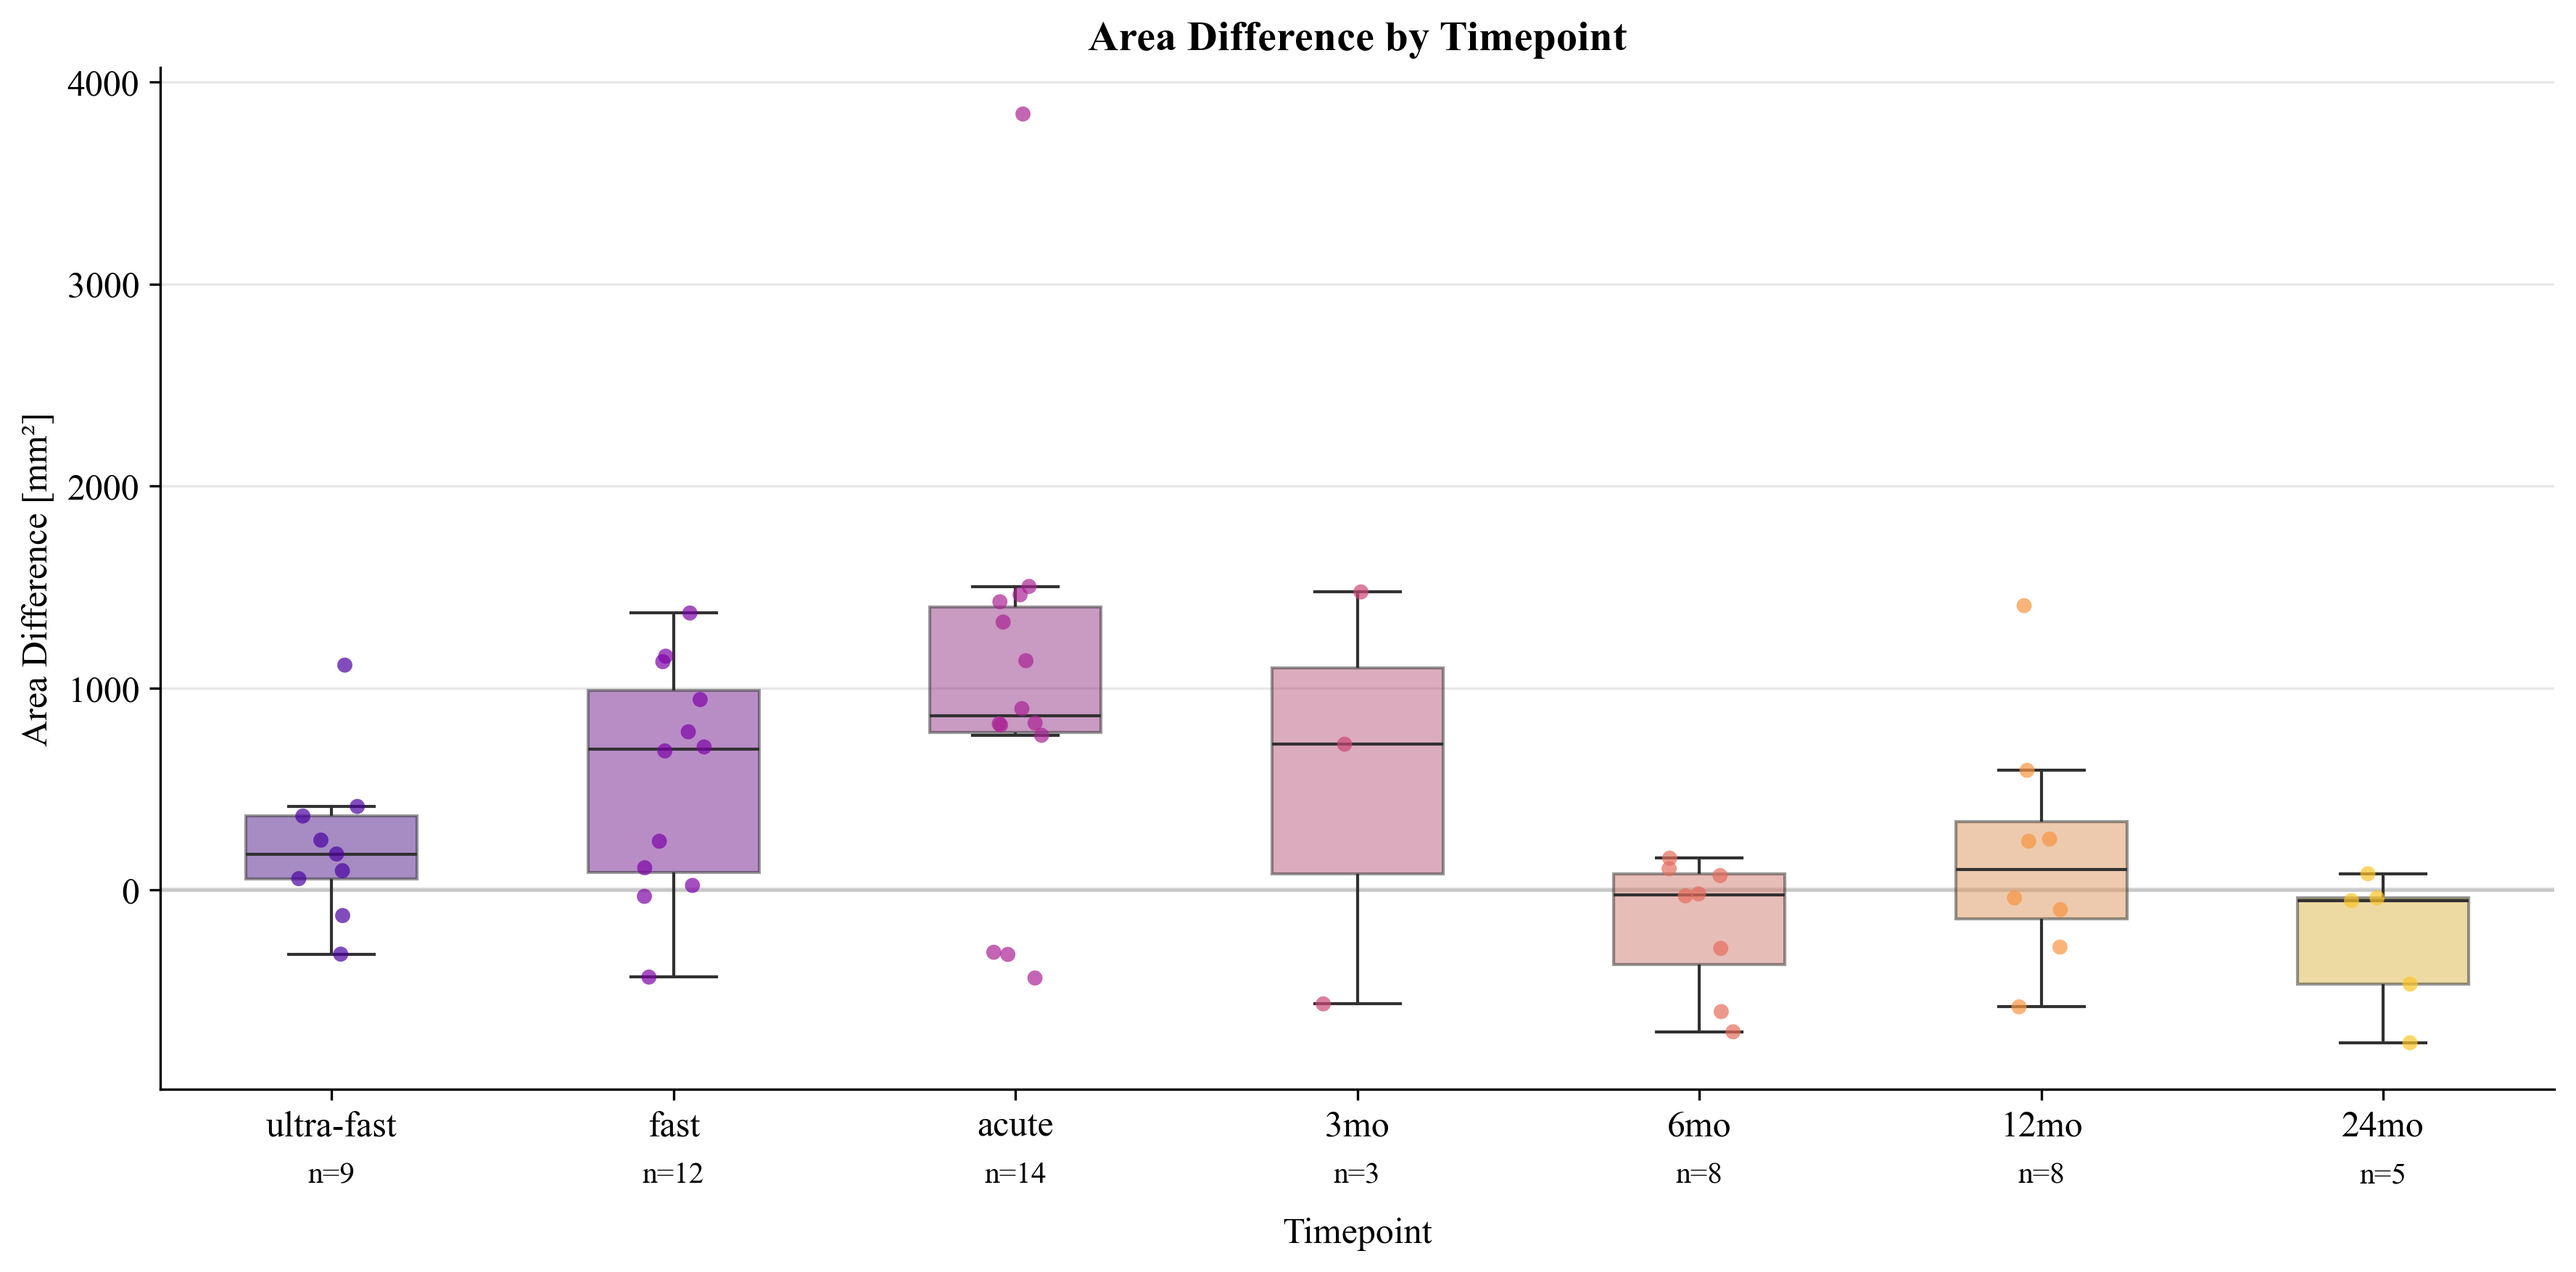
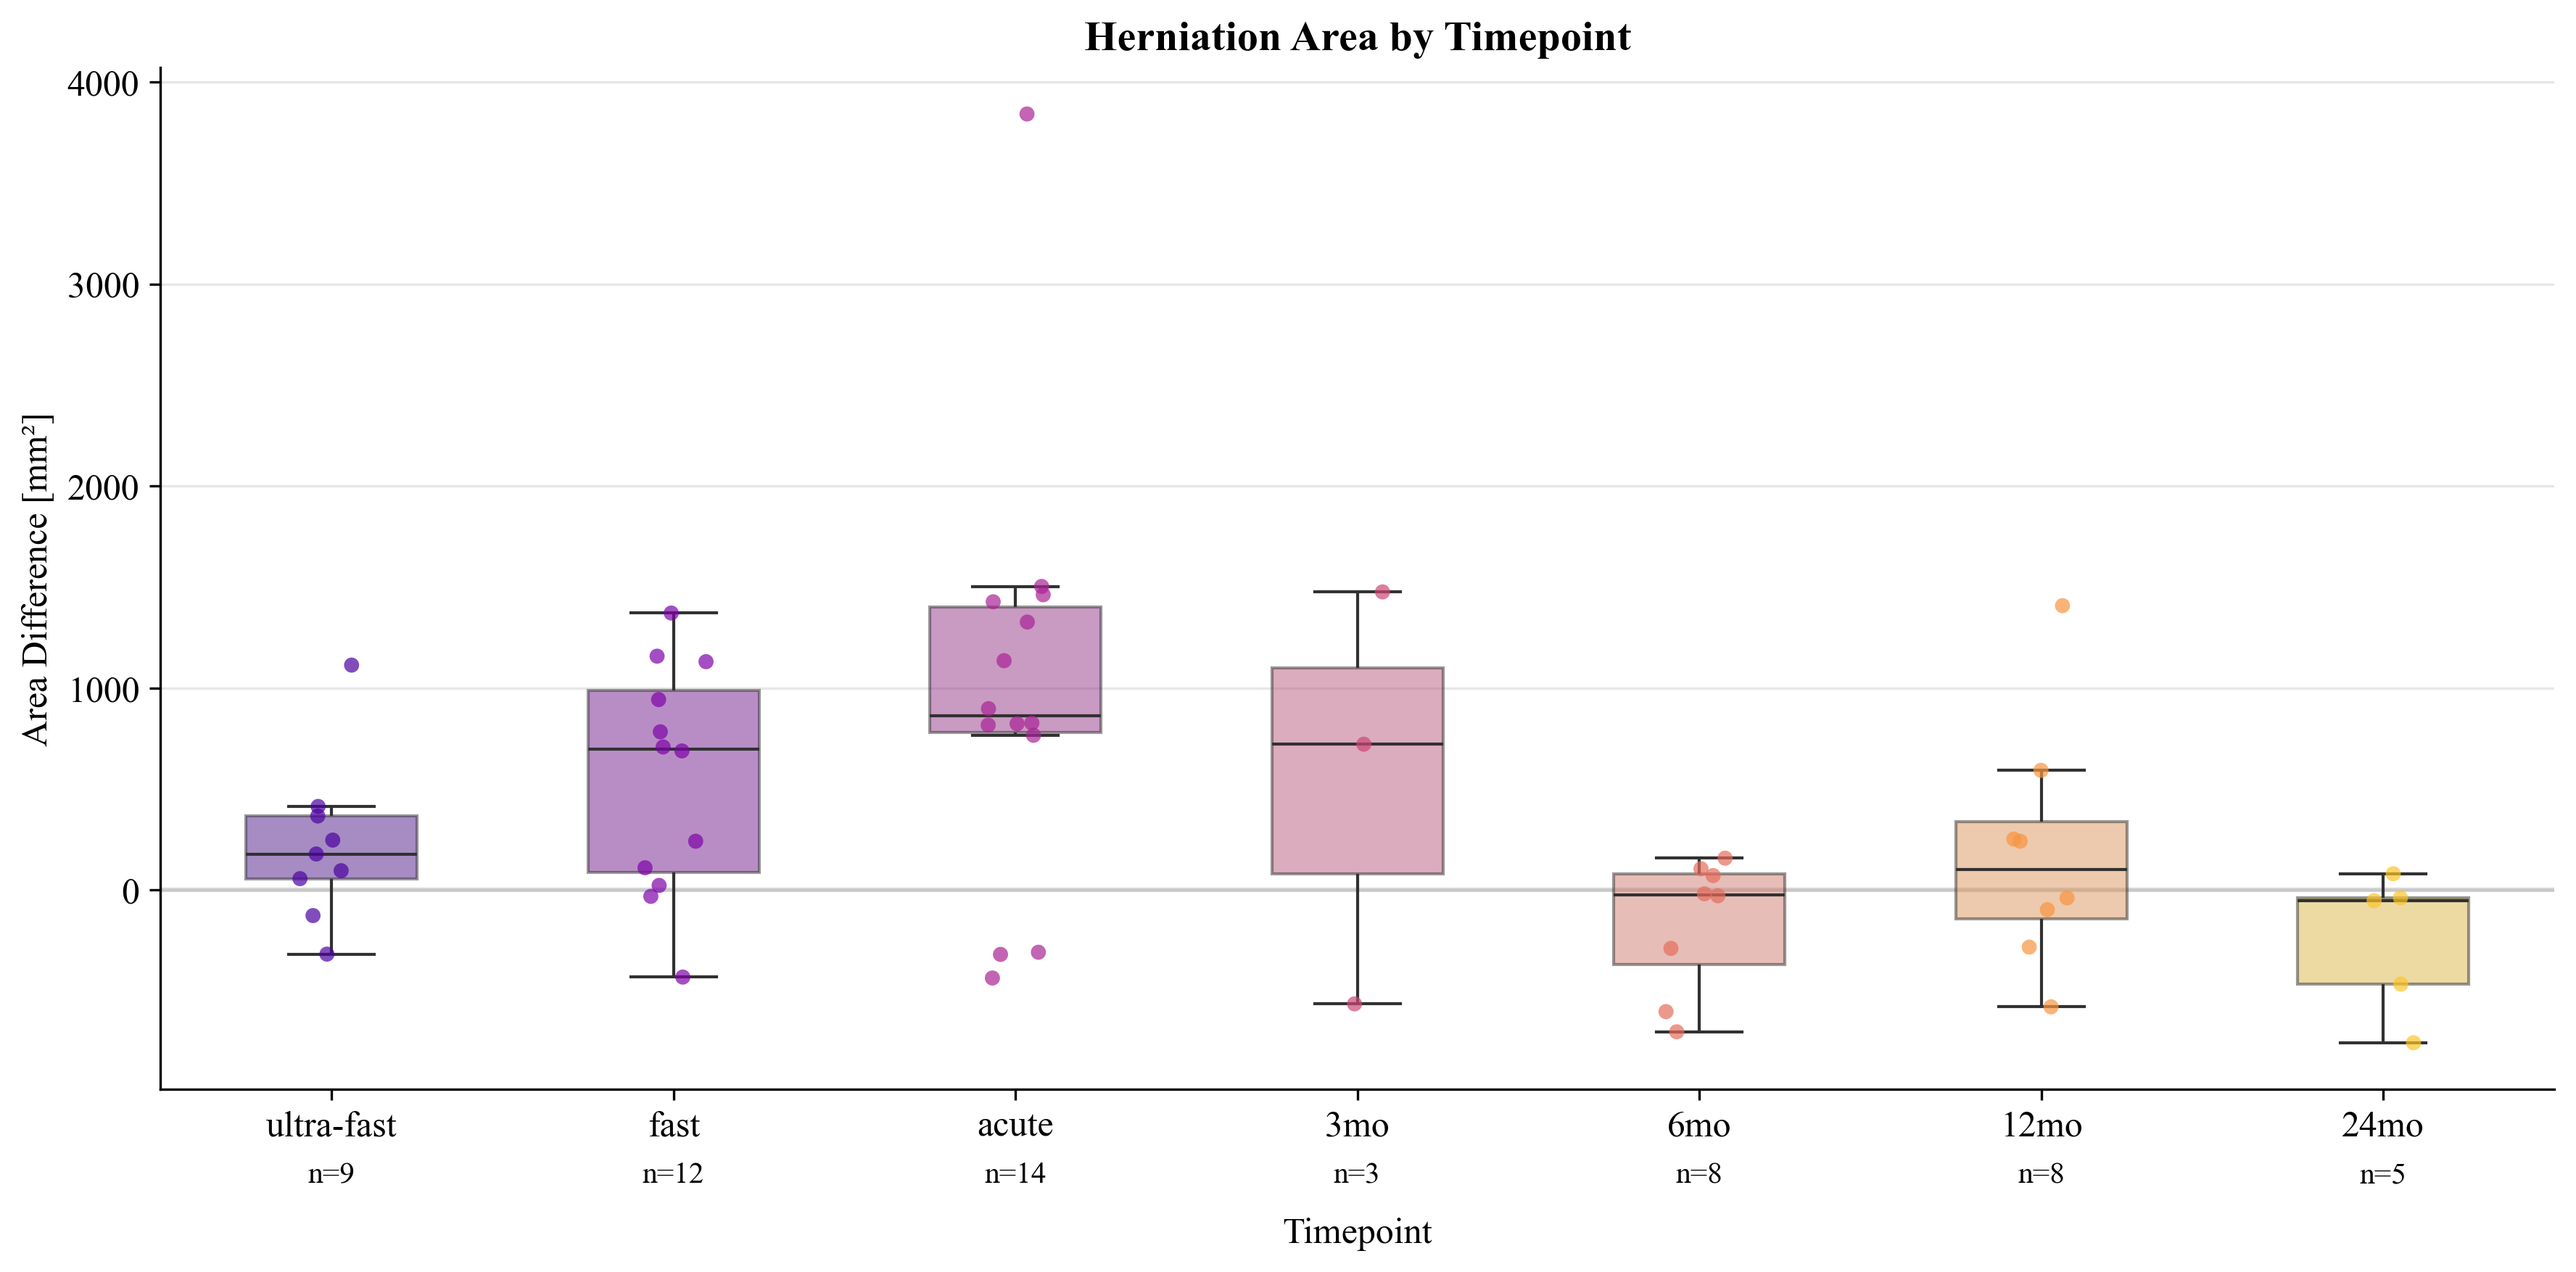
change title

diff --git a/Image_Processing_Scripts/stats_main.py b/Image_Processing_Scripts/stats_main.py
@@ -250,7 +250,7 @@ def create_timepoint_boxplot(df, timepoints=['ultra-fast', 'fast', 'acute', '3mo
     # Set labels and title
     ax.set_xlabel('Timepoint', fontsize=12)
     ax.set_ylabel('Area Difference [mm²]', fontsize=12)
-    ax.set_title('Area Difference by Timepoint', fontsize=14, fontweight='bold')
+    ax.set_title('Herniation Area by Timepoint', fontsize=14, fontweight='bold')
     
     # Add grid for y-axis only
     ax.grid(True, axis='y', linestyle='-', alpha=0.3)
